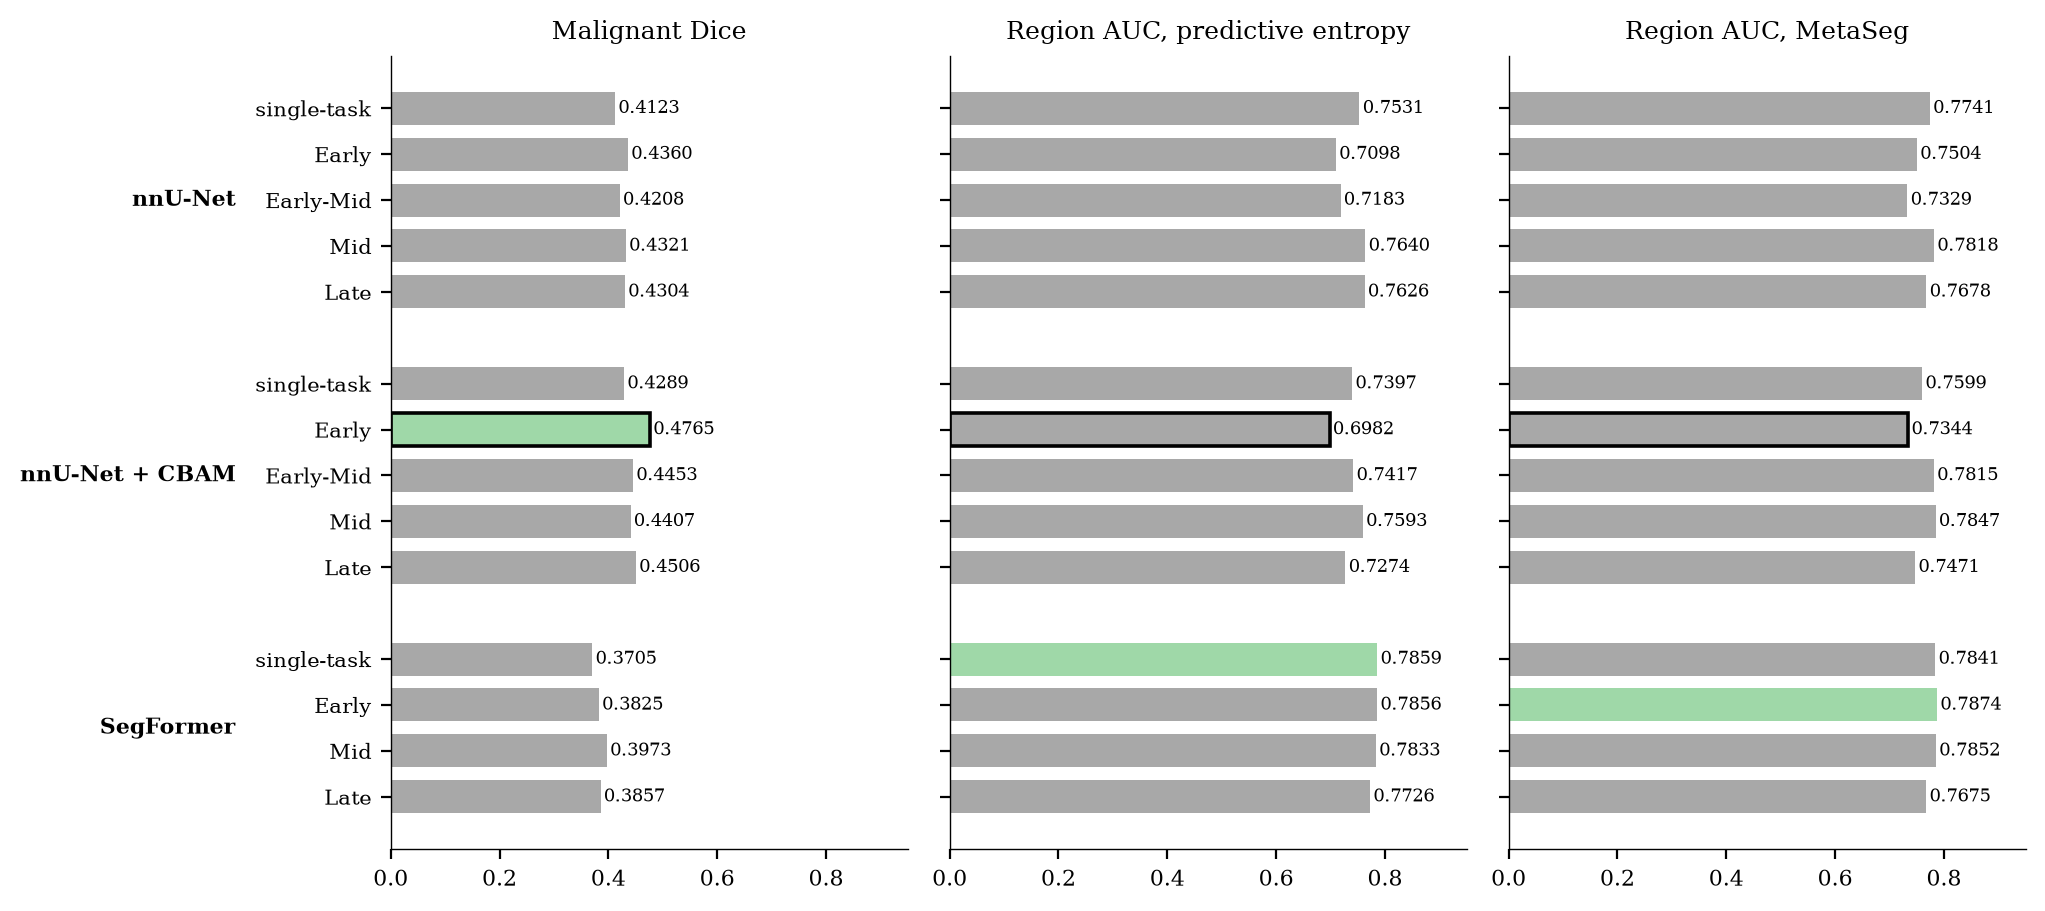
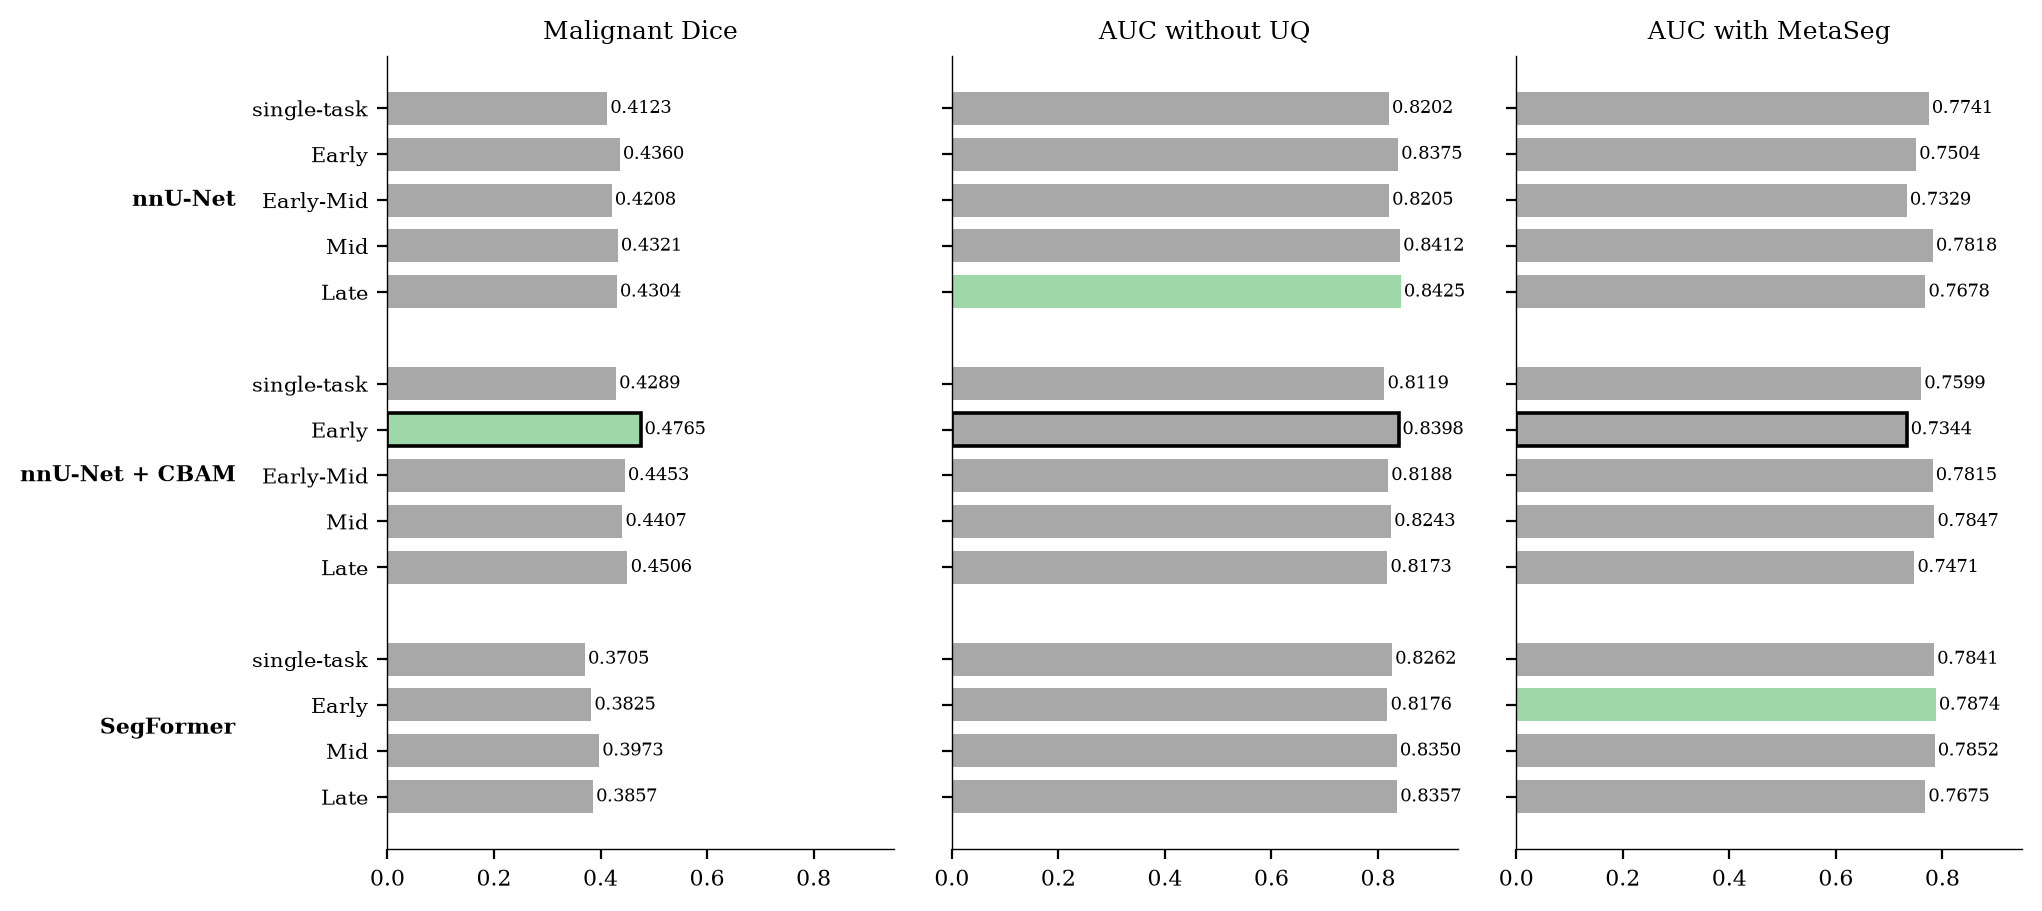
Add the image-level AUC without UQ to the metrics table and figure

diff --git a/scripts/build_sections.py b/scripts/build_sections.py
@@ -43,7 +43,7 @@ def readme() -> None:
     seg = read_table("seg_published.csv").set_index("model")
     config = read_table("uq_discrimination_by_config.csv")
     auc = config[config.method == "metaseg"].groupby("model").auroc.mean()
-    own = config[config.method == "mean_normalized_entropy"].groupby("model").auroc.mean()
+    own = read_table("image_level_auc.csv").set_index("model").auc
     def dice_of(model, target):
         return dice[(dice.model == model) & (dice.target == target)].iloc[0].uq_run_dice_lesion_bearing
     metrics = [[f"`{m}`" + ("*" if m == PROPOSED else ""), num(dice_of(m, "malignant")), num(dice_of(m, "benign")),
@@ -66,8 +66,8 @@ def readme() -> None:
         md_table(["Checkpoint", "Backbone", "Training", "Fission point"], rows, "llll"),
         "\\* The proposed method: nnU-Net with CBAM at Early fission, with MetaSeg filtering.",
         "## Metrics",
-        md_table(["Checkpoint", "Malignant Dice", "Benign Dice", "Skeleton Dice", "Region AUC, predictive entropy", "Region AUC, MetaSeg"], metrics),
-        "Dice is the mean over the test images whose ground truth contains the class (203 malignant, 473 benign), on the UQ run. Skeleton Dice is the mean over the twelve regions on the standard-pipeline run. Region AUC separates true from false predicted regions, as the mean over the two views and the two classes. Predictive entropy is computed from the softmax output of the model itself, MetaSeg is a trained meta-classifier on region features. \\* The proposed method. All other metrics are in the sections above.",
+        md_table(["Checkpoint", "Malignant Dice", "Benign Dice", "Skeleton Dice", "AUC without UQ", "AUC with MetaSeg"], metrics),
+        "Dice is the mean over the test images whose ground truth contains the class (203 malignant, 473 benign), on the UQ run. Skeleton Dice is the mean over the twelve regions on the standard-pipeline run. AUC without UQ detects the images with a malignant hotspot from the predicted malignant area of the model, on the standard-pipeline predictions (203 positive and 383 negative images). AUC with MetaSeg separates true from false predicted regions with the MetaSeg score, as the mean over the two views and the two classes. \\* The proposed method. All other metrics are in the sections above.",
         "![Malignant Dice and MetaSeg region AUC of the fourteen checkpoints](figures/summary_dice_and_auc.png)",
         "## Code",
         "The training and inference code is in two repositories.",
@@ -87,7 +87,8 @@ def readme() -> None:
         md_table(["Output", "Command"], [
             ["Section files and this README", "`uv run --no-project --with pandas python scripts/build_sections.py`"],
             ["`tables/` and the copied figures", "`uv run --no-project --with pandas --with tqdm python scripts/collect_sources.py --project <project folder>`"],
-            ["Figures of S5, S7, S9, S11", "`uv run --no-project --with pandas --with numpy --with pillow --with matplotlib --with tqdm python scripts/make_figures.py all --project <project folder>`"],
+            ["`tables/image_level_auc.csv`", "`uv run --no-project --with pandas --with numpy --with pillow --with matplotlib --with tqdm python scripts/compute_image_auc.py --project <project folder>`"],
+            ["Figures of S5, S7, S9, S11 and the metrics figure", "`uv run --no-project --with pandas --with numpy --with pillow --with matplotlib --with tqdm python scripts/make_figures.py all --project <project folder>`"],
         ], "ll"),
         "The metric files in `tables/` were computed from the saved test predictions and uncertainty records by the scripts of the project. The FROC plots of S6, the training progress plots of S9, and the diagrams of S10 are copied from the project, not redrawn here.",
     ]

diff --git a/scripts/compute_image_auc.py b/scripts/compute_image_auc.py
@@ -1,0 +1,45 @@
+"""Image-level malignant detection AUC without any uncertainty method.
+
+An image is positive when its ground truth has a malignant hotspot. The score is the number of predicted malignant pixels.
+Predictions are those of the standard prediction pipeline on the 293 test cases (586 images).
+
+    uv run --no-project --with pandas --with numpy --with pillow --with matplotlib --with tqdm python scripts/compute_image_auc.py --project <project folder>
+"""
+from __future__ import annotations
+
+import argparse
+from pathlib import Path
+
+import pandas as pd
+from tqdm import tqdm
+
+from common import MODEL_ORDER, ROOT, TABLES, read_table
+from make_figures import prediction, truth_classes
+
+
+def auc(positive: pd.Series, score: pd.Series) -> float:
+    ranks = score.rank(method="average")
+    n_pos, n_neg = int(positive.sum()), int((~positive).sum())
+    return float((ranks[positive].sum() - n_pos * (n_pos + 1) / 2) / (n_pos * n_neg))
+
+
+def main() -> None:
+    parser = argparse.ArgumentParser()
+    parser.add_argument("--project", type=Path, default=ROOT.parents[1])
+    project = parser.parse_args().project.resolve()
+    split = read_table("split_assignment.csv")
+    rows = []
+    for case in tqdm(sorted(split[split.split == "test"].case), desc="images"):
+        for view in ("anterior", "posterior"):
+            row = {"case": case, "view": view, "positive": bool((truth_classes(project, case, view) == 2).any())}
+            for model in MODEL_ORDER:
+                row[model] = int(prediction(project, model, case, view)[1].sum())
+            rows.append(row)
+    scores = pd.DataFrame(rows)
+    summary = pd.DataFrame([{"model": m, "positive_images": int(scores.positive.sum()), "negative_images": int((~scores.positive).sum()), "auc": auc(scores.positive, scores[m])} for m in MODEL_ORDER])
+    summary.to_csv(TABLES / "image_level_auc.csv", index=False, encoding="utf-8")
+    print(summary.to_string(index=False))
+
+
+if __name__ == "__main__":
+    main()

diff --git a/scripts/make_figures.py b/scripts/make_figures.py
@@ -230,7 +230,7 @@ def summary_values() -> pd.DataFrame:
     malignant = dice[dice.target == "malignant"].set_index("model").uq_run_dice_lesion_bearing
     config = read_table("uq_discrimination_by_config.csv")
     auc = config[config.method == "metaseg"].groupby("model").auroc.mean()
-    own = config[config.method == "mean_normalized_entropy"].groupby("model").auroc.mean()
+    own = read_table("image_level_auc.csv").set_index("model").auc
     return pd.DataFrame({"dice": malignant, "own": own, "auc": auc}).reindex(MODEL_ORDER)
 
 
@@ -244,7 +244,7 @@ def summary(project: Path) -> None:
         ticks.append(f"{FISSION[model]}")
         position += 1
     fig, axes = plt.subplots(1, 3, figsize=(10.2, 4.6), sharey=True)
-    for axis, column, title in zip(axes, ("dice", "own", "auc"), ("Malignant Dice", "Region AUC, predictive entropy", "Region AUC, MetaSeg")):
+    for axis, column, title in zip(axes, ("dice", "own", "auc"), ("Malignant Dice", "AUC without UQ", "AUC with MetaSeg")):
         best = values[column].idxmax()
         colors = ["#9fd8a8" if model == best else "#a8a8a8" for model in MODEL_ORDER]
         edges = ["black" if model == PROPOSED else "none" for model in MODEL_ORDER]

diff --git a/README.md b/README.md
@@ -55,24 +55,24 @@ Supplementary material for the paper of the same title. It holds what the paper 
 
 ## Metrics
 
-| Checkpoint | Malignant Dice | Benign Dice | Skeleton Dice | Region AUC, predictive entropy | Region AUC, MetaSeg |
+| Checkpoint | Malignant Dice | Benign Dice | Skeleton Dice | AUC without UQ | AUC with MetaSeg |
 |:---|---:|---:|---:|---:|---:|
-| `nnunet_single` | 0.4123 | 0.5288 | - | 0.7531 | 0.7741 |
-| `nnunet_early` | 0.4360 | 0.5287 | 0.8819 | 0.7098 | 0.7504 |
-| `nnunet_earlymid` | 0.4208 | 0.5418 | 0.8817 | 0.7183 | 0.7329 |
-| `nnunet_mid` | 0.4321 | 0.5232 | 0.8458 | 0.7640 | 0.7818 |
-| `nnunet_late` | 0.4304 | 0.5472 | 0.8506 | 0.7626 | 0.7678 |
-| `nnunetcbam_single` | 0.4289 | 0.5220 | - | 0.7397 | 0.7599 |
-| `nnunetcbam_multidecoder`* | 0.4765 | 0.5390 | 0.8810 | 0.6982 | 0.7344 |
-| `nnunetcbam_earlymid` | 0.4453 | 0.5347 | 0.8805 | 0.7417 | 0.7815 |
-| `nnunetcbam_mid` | 0.4407 | 0.5286 | 0.8403 | 0.7593 | 0.7847 |
-| `nnunetcbam_multihead` | 0.4506 | 0.5486 | 0.8392 | 0.7274 | 0.7471 |
-| `segformer_single` | 0.3705 | 0.5319 | - | 0.7859 | 0.7841 |
-| `segformer_early` | 0.3825 | 0.5498 | 0.8815 | 0.7856 | 0.7874 |
-| `segformer_mid` | 0.3973 | 0.5451 | 0.8810 | 0.7833 | 0.7852 |
-| `segformer_late` | 0.3857 | 0.5473 | 0.8740 | 0.7726 | 0.7675 |
+| `nnunet_single` | 0.4123 | 0.5288 | - | 0.8202 | 0.7741 |
+| `nnunet_early` | 0.4360 | 0.5287 | 0.8819 | 0.8375 | 0.7504 |
+| `nnunet_earlymid` | 0.4208 | 0.5418 | 0.8817 | 0.8205 | 0.7329 |
+| `nnunet_mid` | 0.4321 | 0.5232 | 0.8458 | 0.8412 | 0.7818 |
+| `nnunet_late` | 0.4304 | 0.5472 | 0.8506 | 0.8425 | 0.7678 |
+| `nnunetcbam_single` | 0.4289 | 0.5220 | - | 0.8119 | 0.7599 |
+| `nnunetcbam_multidecoder`* | 0.4765 | 0.5390 | 0.8810 | 0.8398 | 0.7344 |
+| `nnunetcbam_earlymid` | 0.4453 | 0.5347 | 0.8805 | 0.8188 | 0.7815 |
+| `nnunetcbam_mid` | 0.4407 | 0.5286 | 0.8403 | 0.8243 | 0.7847 |
+| `nnunetcbam_multihead` | 0.4506 | 0.5486 | 0.8392 | 0.8173 | 0.7471 |
+| `segformer_single` | 0.3705 | 0.5319 | - | 0.8262 | 0.7841 |
+| `segformer_early` | 0.3825 | 0.5498 | 0.8815 | 0.8176 | 0.7874 |
+| `segformer_mid` | 0.3973 | 0.5451 | 0.8810 | 0.8350 | 0.7852 |
+| `segformer_late` | 0.3857 | 0.5473 | 0.8740 | 0.8357 | 0.7675 |
 
-Dice is the mean over the test images whose ground truth contains the class (203 malignant, 473 benign), on the UQ run. Skeleton Dice is the mean over the twelve regions on the standard-pipeline run. Region AUC separates true from false predicted regions, as the mean over the two views and the two classes. Predictive entropy is computed from the softmax output of the model itself, MetaSeg is a trained meta-classifier on region features. \* The proposed method. All other metrics are in the sections above.
+Dice is the mean over the test images whose ground truth contains the class (203 malignant, 473 benign), on the UQ run. Skeleton Dice is the mean over the twelve regions on the standard-pipeline run. AUC without UQ detects the images with a malignant hotspot from the predicted malignant area of the model, on the standard-pipeline predictions (203 positive and 383 negative images). AUC with MetaSeg separates true from false predicted regions with the MetaSeg score, as the mean over the two views and the two classes. \* The proposed method. All other metrics are in the sections above.
 
 ![Malignant Dice and MetaSeg region AUC of the fourteen checkpoints](figures/summary_dice_and_auc.png)
 
@@ -107,6 +107,7 @@ The sections are rebuilt from `tables/` and `figures/` alone. The two collection
 |:---|:---|
 | Section files and this README | `uv run --no-project --with pandas python scripts/build_sections.py` |
 | `tables/` and the copied figures | `uv run --no-project --with pandas --with tqdm python scripts/collect_sources.py --project <project folder>` |
-| Figures of S5, S7, S9, S11 | `uv run --no-project --with pandas --with numpy --with pillow --with matplotlib --with tqdm python scripts/make_figures.py all --project <project folder>` |
+| `tables/image_level_auc.csv` | `uv run --no-project --with pandas --with numpy --with pillow --with matplotlib --with tqdm python scripts/compute_image_auc.py --project <project folder>` |
+| Figures of S5, S7, S9, S11 and the metrics figure | `uv run --no-project --with pandas --with numpy --with pillow --with matplotlib --with tqdm python scripts/make_figures.py all --project <project folder>` |
 
 The metric files in `tables/` were computed from the saved test predictions and uncertainty records by the scripts of the project. The FROC plots of S6, the training progress plots of S9, and the diagrams of S10 are copied from the project, not redrawn here.
